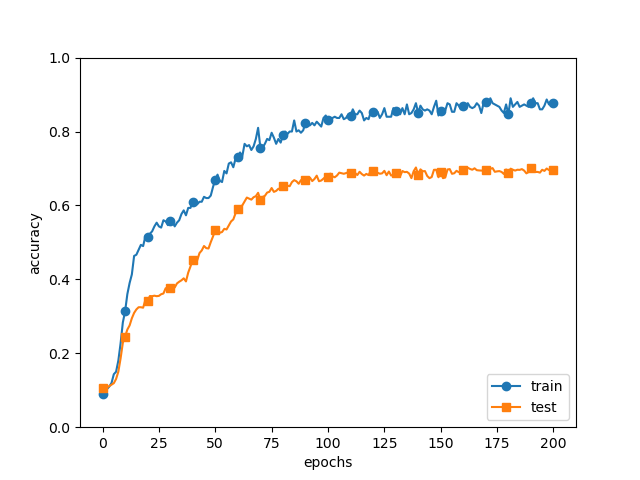
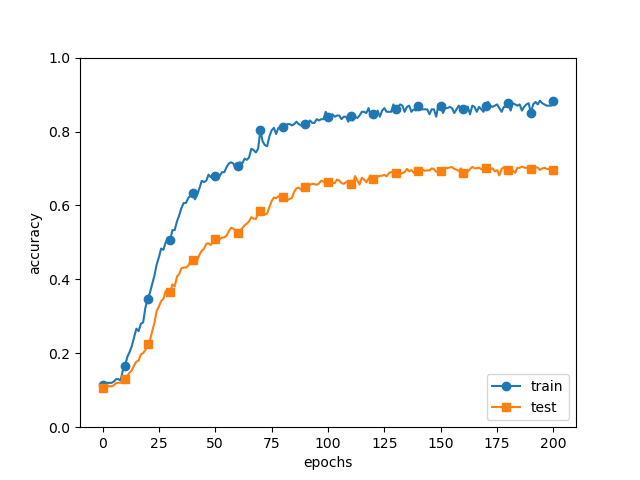
lec 7,8 | deep learning from scratch chap.6 (2)

Changed region(s): [[0.1562, 0.1875, 0.875, 0.8438]]

diff --git a/common/trainer.py b/common/trainer.py
@@ -1,15 +1,18 @@
 # coding: utf-8
 import sys, os
+
 sys.path.append(os.pardir)  # 부모 디렉터리의 파일을 가져올 수 있도록 설정
 import numpy as np
 from common.optimizer import *
 
+
 class Trainer:
     """신경망 훈련을 대신 해주는 클래스
     """
+
     def __init__(self, network, x_train, t_train, x_test, t_test,
                  epochs=20, mini_batch_size=100,
-                 optimizer='SGD', optimizer_param={'lr':0.01}, 
+                 optimizer='SGD', optimizer_param={'lr': 0.01},
                  evaluate_sample_num_per_epoch=None, verbose=True):
         self.network = network
         self.verbose = verbose
@@ -22,16 +25,16 @@ class Trainer:
         self.evaluate_sample_num_per_epoch = evaluate_sample_num_per_epoch
 
         # optimzer
-        optimizer_class_dict = {'sgd':SGD, 'momentum':Momentum, 'nesterov':Nesterov,
-                                'adagrad':AdaGrad, 'rmsprpo':RMSprop, 'adam':Adam}
+        optimizer_class_dict = {'sgd': SGD, 'momentum': Momentum, 'nesterov': Nesterov,
+                                'adagrad': AdaGrad, 'rmsprpo': RMSprop, 'adam': Adam}
         self.optimizer = optimizer_class_dict[optimizer.lower()](**optimizer_param)
-        
+
         self.train_size = x_train.shape[0]
         self.iter_per_epoch = max(self.train_size / mini_batch_size, 1)
         self.max_iter = int(epochs * self.iter_per_epoch)
         self.current_iter = 0
         self.current_epoch = 0
-        
+
         self.train_loss_list = []
         self.train_acc_list = []
         self.test_acc_list = []
@@ -40,30 +43,32 @@ class Trainer:
         batch_mask = np.random.choice(self.train_size, self.batch_size)
         x_batch = self.x_train[batch_mask]
         t_batch = self.t_train[batch_mask]
-        
+
         grads = self.network.gradient(x_batch, t_batch)
         self.optimizer.update(self.network.params, grads)
-        
+
         loss = self.network.loss(x_batch, t_batch)
         self.train_loss_list.append(loss)
         if self.verbose: print("train loss:" + str(loss))
-        
+
         if self.current_iter % self.iter_per_epoch == 0:
             self.current_epoch += 1
-            
+
             x_train_sample, t_train_sample = self.x_train, self.t_train
             x_test_sample, t_test_sample = self.x_test, self.t_test
             if not self.evaluate_sample_num_per_epoch is None:
                 t = self.evaluate_sample_num_per_epoch
                 x_train_sample, t_train_sample = self.x_train[:t], self.t_train[:t]
                 x_test_sample, t_test_sample = self.x_test[:t], self.t_test[:t]
-                
+
             train_acc = self.network.accuracy(x_train_sample, t_train_sample)
             test_acc = self.network.accuracy(x_test_sample, t_test_sample)
             self.train_acc_list.append(train_acc)
             self.test_acc_list.append(test_acc)
 
-            if self.verbose: print("=== epoch:" + str(self.current_epoch) + ", train acc:" + str(train_acc) + ", test acc:" + str(test_acc) + " ===")
+            if self.verbose: print(
+                "=== epoch:" + str(self.current_epoch) + ", train acc:" + str(train_acc) + ", test acc:" + str(
+                    test_acc) + " ===")
         self.current_iter += 1
 
     def train(self):
@@ -75,4 +80,3 @@ class Trainer:
         if self.verbose:
             print("=============== Final Test Accuracy ===============")
             print("test acc:" + str(test_acc))
-

diff --git a/lec7_lec8/hyperparameter_optimization.py b/lec7_lec8/hyperparameter_optimization.py
@@ -1,0 +1,78 @@
+# coding: utf-8
+import sys, os
+
+sys.path.append(os.pardir)  # 부모 디렉터리의 파일을 가져올 수 있도록 설정
+import numpy as np
+import matplotlib.pyplot as plt
+from dataset.mnist import load_mnist
+from common.multi_layer_net import MultiLayerNet
+from common.util import shuffle_dataset
+from common.trainer import Trainer
+
+(x_train, t_train), (x_test, t_test) = load_mnist(normalize=True)
+
+# 결과를 빠르게 얻기 위해 훈련 데이터를 줄임
+x_train = x_train[:500]
+t_train = t_train[:500]
+
+# 20%를 검증 데이터로 분할
+validation_rate = 0.20
+validation_num = int(x_train.shape[0] * validation_rate)
+x_train, t_train = shuffle_dataset(x_train, t_train)
+x_val = x_train[:validation_num]
+t_val = t_train[:validation_num]
+x_train = x_train[validation_num:]
+t_train = t_train[validation_num:]
+
+
+def __train(lr, weight_decay, epocs=50):
+    network = MultiLayerNet(input_size=784, hidden_size_list=[100, 100, 100, 100, 100, 100],
+                            output_size=10, weight_decay_lambda=weight_decay)
+    trainer = Trainer(network, x_train, t_train, x_val, t_val,
+                      epochs=epocs, mini_batch_size=100,
+                      optimizer='sgd', optimizer_param={'lr': lr}, verbose=False)
+    trainer.train()
+
+    return trainer.test_acc_list, trainer.train_acc_list
+
+
+# 하이퍼파라미터 무작위 탐색======================================
+optimization_trial = 100
+results_val = {}
+results_train = {}
+for _ in range(optimization_trial):
+    # 탐색한 하이퍼파라미터의 범위 지정===============
+    weight_decay = 10 ** np.random.uniform(-8, -4)
+    lr = 10 ** np.random.uniform(-6, -2)
+    # ================================================
+
+    val_acc_list, train_acc_list = __train(lr, weight_decay)
+    print("val acc:" + str(val_acc_list[-1]) + " | lr:" + str(lr) + ", weight decay:" + str(weight_decay))
+    key = "lr:" + str(lr) + ", weight decay:" + str(weight_decay)
+    results_val[key] = val_acc_list
+    results_train[key] = train_acc_list
+
+# 그래프 그리기========================================================
+print("=========== Hyper-Parameter Optimization Result ===========")
+graph_draw_num = 20
+col_num = 5
+row_num = int(np.ceil(graph_draw_num / col_num))
+i = 0
+
+for key, val_acc_list in sorted(results_val.items(), key=lambda x: x[1][-1], reverse=True):
+    print("Best-" + str(i + 1) + "(val acc:" + str(val_acc_list[-1]) + ") | " + key)
+
+    plt.subplot(row_num, col_num, i + 1)
+    plt.title("Best-" + str(i + 1))
+    plt.ylim(0.0, 1.0)
+    if i % 5: plt.yticks([])
+    plt.xticks([])
+    x = np.arange(len(val_acc_list))
+    plt.plot(x, val_acc_list)
+    plt.plot(x, results_train[key], "--")
+    i += 1
+
+    if i >= graph_draw_num:
+        break
+
+plt.show()

diff --git a/lec7_lec8/overfit_dropout.py b/lec7_lec8/overfit_dropout.py
@@ -1,0 +1,42 @@
+# coding: utf-8
+import os
+import sys
+
+sys.path.append(os.pardir)  # 부모 디렉터리의 파일을 가져올 수 있도록 설정
+import numpy as np
+import matplotlib.pyplot as plt
+from dataset.mnist import load_mnist
+from common.multi_layer_net_extend import MultiLayerNetExtend
+from common.trainer import Trainer
+
+(x_train, t_train), (x_test, t_test) = load_mnist(normalize=True)
+
+# 오버피팅을 재현하기 위해 학습 데이터 수를 줄임
+x_train = x_train[:300]
+t_train = t_train[:300]
+
+# 드롭아웃 사용 유무와 비울 설정 ========================
+use_dropout = True  # 드롭아웃을 쓰지 않을 때는 False
+dropout_ratio = 0.2
+# ====================================================
+
+network = MultiLayerNetExtend(input_size=784, hidden_size_list=[100, 100, 100, 100, 100, 100],
+                              output_size=10, use_dropout=use_dropout, dropout_ration=dropout_ratio)
+trainer = Trainer(network, x_train, t_train, x_test, t_test,
+                  epochs=301, mini_batch_size=100,
+                  optimizer='sgd', optimizer_param={'lr': 0.01}, verbose=True)
+trainer.train()
+
+train_acc_list, test_acc_list = trainer.train_acc_list, trainer.test_acc_list
+
+# 그래프 그리기==========
+markers = {'train': 'o', 'test': 's'}
+x = np.arange(len(train_acc_list))
+plt.plot(x, train_acc_list, marker='o', label='train', markevery=10)
+plt.plot(x, test_acc_list, marker='s', label='test', markevery=10)
+plt.xlabel("epochs")
+plt.ylabel("accuracy")
+plt.ylim(0, 1.0)
+plt.legend(loc='lower right')
+plt.savefig('use_dropout.png')
+plt.show()
